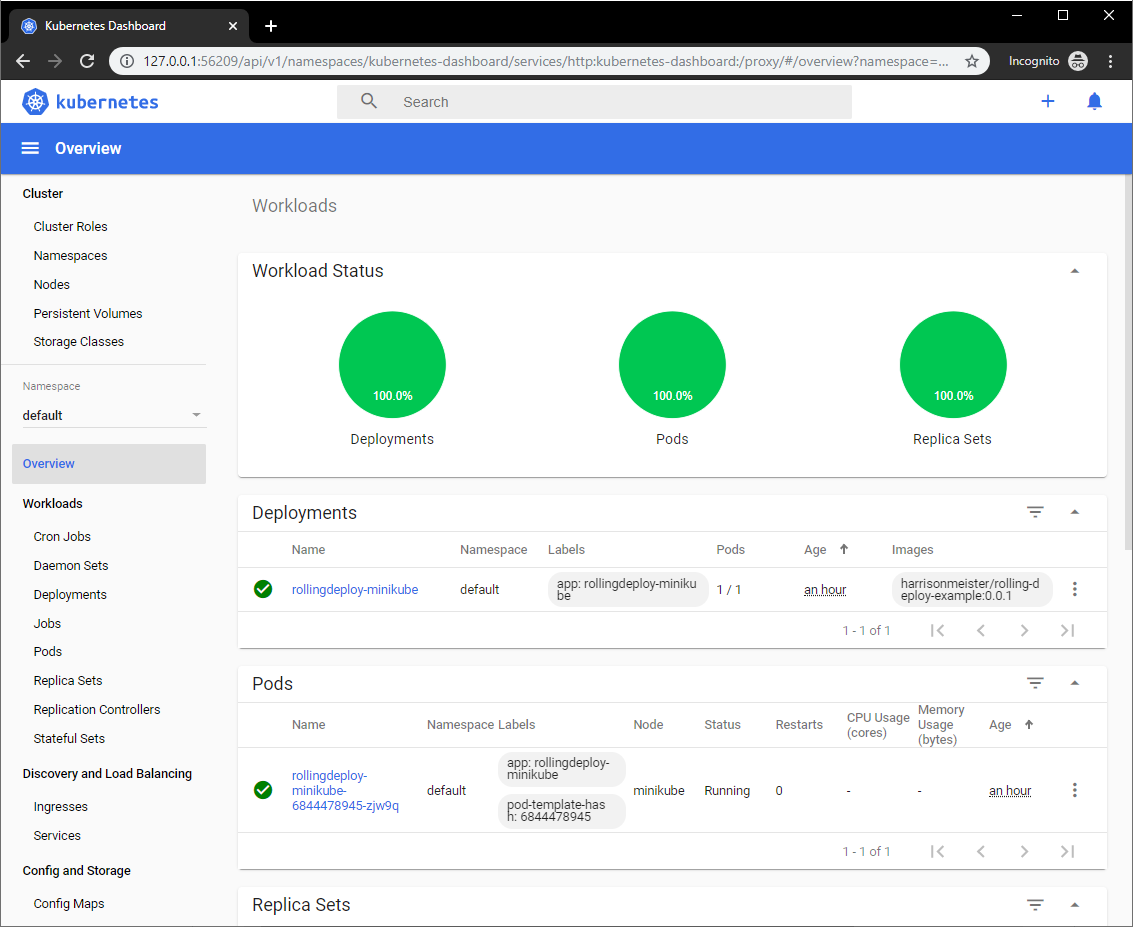
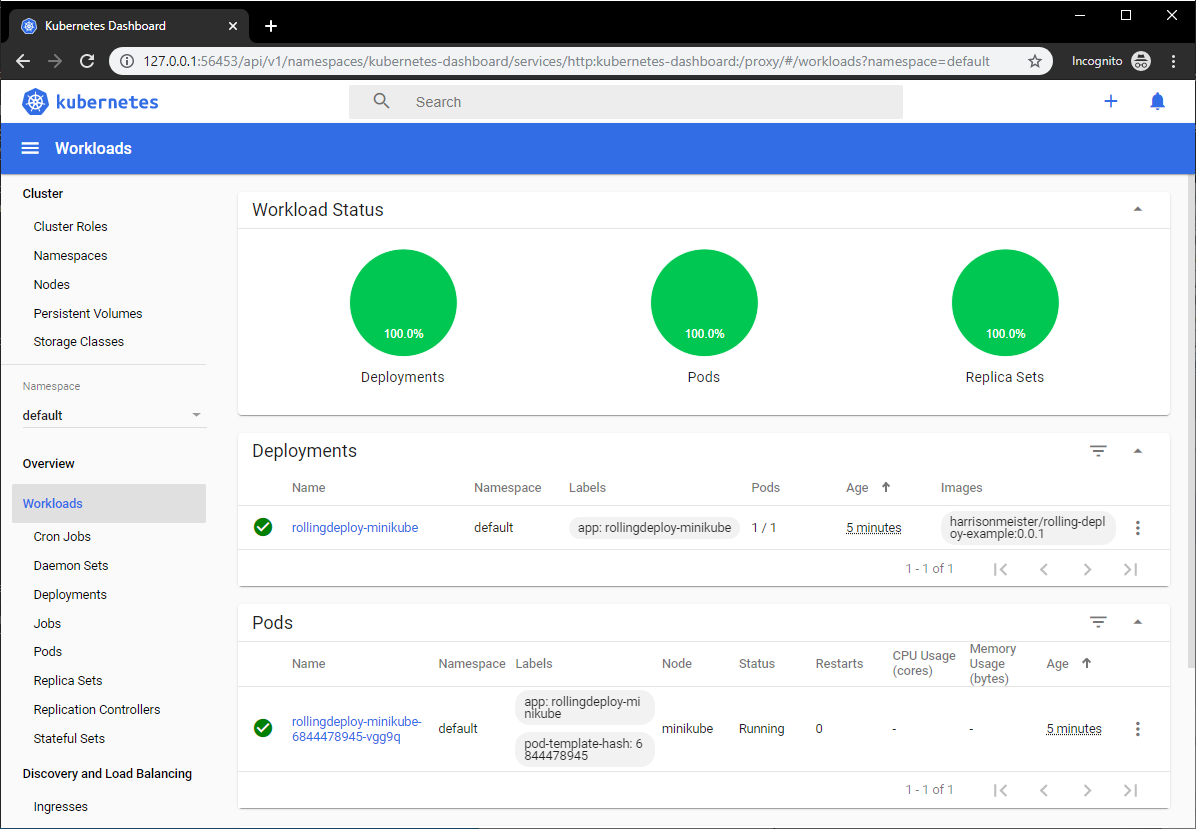
Add scaling image

diff --git a/blog/2019-12/ultimate-guide-to-rolling-deployments/index.md b/blog/2019-12/ultimate-guide-to-rolling-deployments/index.md
@@ -362,6 +362,10 @@ You can use it to deploy containerized applications, manage and interact with yo
 
 ![](minikube-dashboard.png "width=500")
 
+***Scaling Replicas***
+
+Now, in order to perform a rolling update we need more than one replica of our application. 
+
 ### Azure DevOps?
 
 _TODO?_
